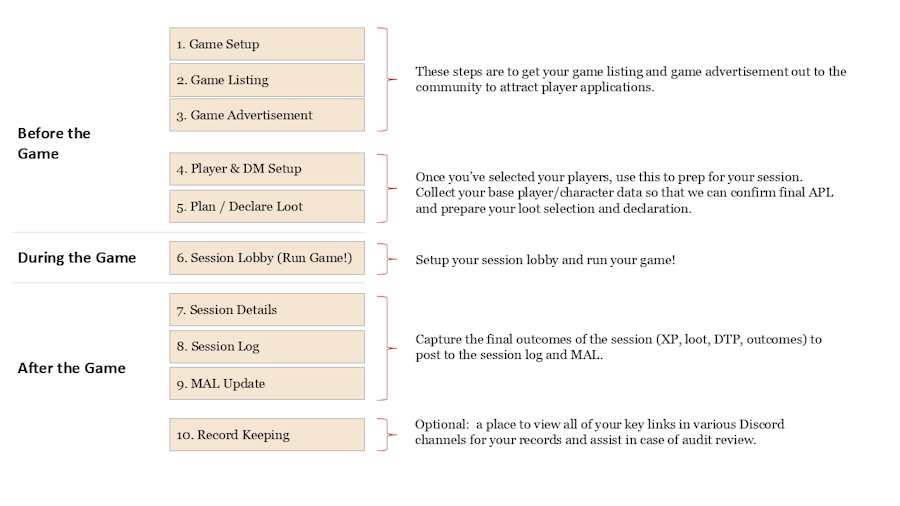
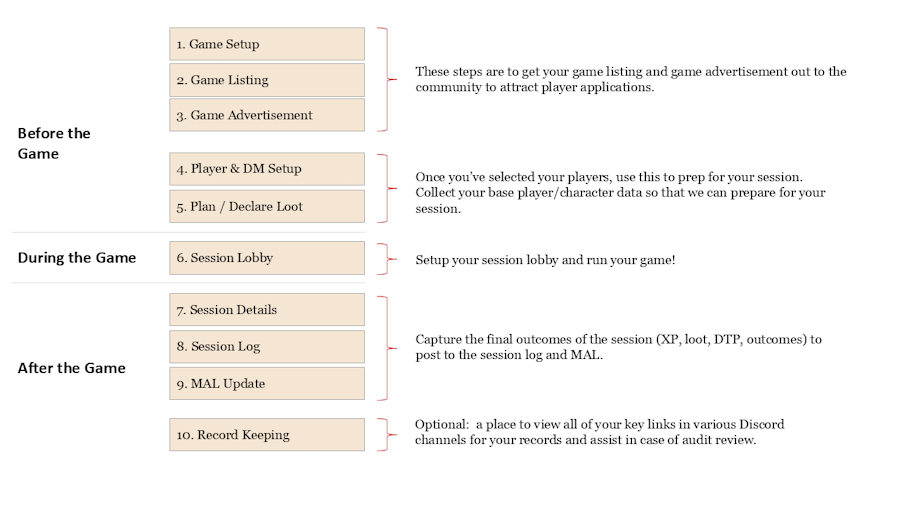
dm-tool

diff --git a/dm-tool/session.html b/dm-tool/session.html
@@ -180,7 +180,7 @@ extra_css:
 
         <div id="view-game-listing" class="view-section hidden-section">
             <h2>Game Posting to #Game-Listings</h2>
-            <p class="instruction-text">If you have a lobby already, copy the lobby link below (<a href="https://discord.com/channels/308324031478890497/1404082758342676651">instructions on how to create a lobby</a>). Otherwise use "TBD" and update the lobby later when you have one setup.</p>  
+            <p class="instruction-text">If you use a permanent session lobby, copy the link to your lobby below.  If you don't, leave it blank and we'll create it in Step 6.</p>  
             <p class="instruction-text">Review the game listing below, click the "copy to clipboard" button, then post this in <a href="https://discord.com/channels/308324031478890497/1366924010255814768">#game-listings</a></p>
                 <div class="card">
                 <div class="form-group" style="margin-bottom: 2rem;">
@@ -269,6 +269,18 @@ extra_css:
                     <div class="form-group flex-grow"><label>DM Character Name</label><input type="text" id="inp-dm-char-name" placeholder="Character Name"></div>
                     <div class="form-group" style="width: 100px;"><label>DM PC Level</label><input type="number" id="inp-dm-level" placeholder="Lvl"></div>
                     <div class="form-group" style="width: 140px;"><label>Games DM'ed on Server</label><select id="inp-dm-games-count"><option value="1">1</option><option value="2">2</option><option value="3">3</option><option value="4">4</option><option value="5">5</option><option value="6">6</option><option value="7">7</option><option value="8">8</option><option value="9">9</option><option value="10">10</option><option value="10+">10+</option></select></div>
+                </div>
+            </div>
+            
+            <div class="card" style="margin-top: 2rem;">
+                <h3 class="card-title">DM Collaborators</h3>
+                <div class="form-group">
+                    <label>DM Collaboration Link</label>
+                    <input type="text" id="inp-dm-collab-link" placeholder="Enter collaboration link (e.g., Google Doc, Discord thread)">
+                </div>
+                <div class="form-group">
+                    <label>DM Collaborators {% include help-icon.html text="Enter Discord names of collaborating DMs. One per line or comma-separated (e.g., @DMName1, @DMName2)" %}</label>
+                    <textarea id="inp-dm-collaborators" class="table-input" rows="3" placeholder="@DMName1&#10;@DMName2&#10;or: @DMName1, @DMName2, @DMName3"></textarea>
                 </div>
             </div>
         </div>
@@ -419,11 +431,27 @@ extra_css:
 
         <div id="view-session-lobby" class="view-section hidden-section">
             <h2>Session Lobby</h2>
-            <p class="instruction-text">Session lobby content coming soon...</p>
+            <p class="instruction-text">Create your session lobby message to ping all players and direct them to the game listing.</p>
+            
             <div class="card">
-                <p>This section will contain the session lobby functionality.</p>
+                <div class="form-group">
+                    <label>Game Listing URL {% include help-icon.html text="Paste the URL to your game listing (e.g., Discord message link)" %}</label>
+                    <input type="text" id="inp-game-listing-url" placeholder="https://discord.com/channels/...">
+                </div>
+
+                <div class="form-group" style="margin-top: 2rem;">
+                    <label>Session Lobby Output:</label>
+                    <p class="instruction-text">Copy this message and post it to your session lobby channel to notify all players.</p>
+                    <div class="discord-output-wrapper" style="border: 1px solid var(--color-border); border-radius: 6px; overflow: hidden;">
+                        <textarea id="out-session-lobby" class="out-session-text" style="width: 100%; height: 150px; padding: 1rem; background: #36393f; color: #dcddde; border: none; resize: vertical; font-family: monospace; box-sizing: border-box;" readonly></textarea>
+                    </div>
+                    <div style="margin-top: 0.5rem; text-align: right;">
+                        <button class="button" onclick="window.copyToClipboard('out-session-lobby')">Copy to Clipboard</button>
+                    </div>
+                </div>
             </div>
         </div>
+
 
 
         <div id="view-session-details" class="view-section hidden-section">

diff --git a/assets/js/dm-tool/state-manager.js b/assets/js/dm-tool/state-manager.js
@@ -46,6 +46,9 @@ class StateManager {
                 how_to_apply: '',
                 listing_url: '',
                 lobby_url: '',
+                game_listing_url: '', // For Session Lobby
+                dm_collab_link: '', // DM Collaboration Link
+                dm_collaborators: '', // DM Collaborators list
                 loot_plan: '',
                 predet_perms: 0,
                 predet_cons: 0
@@ -138,6 +141,13 @@ class StateManager {
         this.dom.listingUrl = document.getElementById('inp-listing-url');
         this.dom.lobbyUrl = document.getElementById('inp-lobby-url');
         
+        // Session Lobby Tab
+        this.dom.gameListingUrl = document.getElementById('inp-game-listing-url');
+        
+        // DM Collaborators
+        this.dom.dmCollabLink = document.getElementById('inp-dm-collab-link');
+        this.dom.dmCollaborators = document.getElementById('inp-dm-collaborators');
+        
         // Loot Plan Tab
         this.dom.lootPlan = document.getElementById('inp-loot-plan');
         this.dom.predetPerms = document.getElementById('inp-predet-perms');
@@ -181,6 +191,9 @@ class StateManager {
             { el: this.dom.gameName, sect: 'header', field: 'title', update: ['outputs', 'lootDeclaration'] },
             { el: this.dom.lobbyUrl, sect: 'header', field: 'lobby_url', update: ['outputs'] },
             { el: this.dom.listingUrl, sect: 'header', field: 'listing_url', update: ['outputs'] },
+            { el: this.dom.gameListingUrl, sect: 'header', field: 'game_listing_url', update: ['outputs'] },
+            { el: this.dom.dmCollabLink, sect: 'header', field: 'dm_collab_link', update: ['outputs'] },
+            { el: this.dom.dmCollaborators, sect: 'header', field: 'dm_collaborators', update: ['outputs'] },
             { el: this.dom.dmCharName, sect: 'dm', field: 'character_name', update: ['outputs', 'dmLoot'] },
             { el: this.dom.lootPlan, sect: 'header', field: 'loot_plan', update: ['lootDeclaration'] },
             // Setup Tab text areas

diff --git a/assets/js/dm-tool/session-rows.js b/assets/js/dm-tool/session-rows.js
@@ -120,13 +120,32 @@ export function addPlayerRowToMaster(data = {}) {
     const nameInput = tr.querySelector('.inp-player-display');
     const idInput = tr.querySelector('.inp-discord-id');
     
-    // Sync ID with Name if ID is missing (fallback)
+    // Validate that Discord names start with @ and sync ID with Name if ID is missing
     nameInput.addEventListener('change', () => {
+        let value = nameInput.value.trim();
+        
+        // If user entered a Discord name manually (not from sync), ensure it starts with @
+        if (value && !value.startsWith('@')) {
+            value = '@' + value;
+            nameInput.value = value;
+        }
+        
         if(!idInput.value || idInput.value === nameInput.value) {
-            idInput.value = nameInput.value;
+            idInput.value = value;
         }
     });
-
+    
+    // Also validate on blur
+    nameInput.addEventListener('blur', () => {
+        let value = nameInput.value.trim();
+        if (value && !value.startsWith('@')) {
+            value = '@' + value;
+            nameInput.value = value;
+            if(!idInput.value || idInput.value === nameInput.value.replace('@', '')) {
+                idInput.value = value;
+            }
+        }
+    });
     tr.querySelector('.btn-delete-row').addEventListener('click', () => {
         tr.remove();
         updateMasterRosterStats(); 

diff --git a/assets/js/dm-tool/session-io.js b/assets/js/dm-tool/session-io.js
@@ -327,6 +327,33 @@ ${state.header.game_description || "No description provided."}
 
         adEl.value = adText;
     }
+
+    // 3. SESSION LOBBY OUTPUT
+    const lobbyEl = document.getElementById('out-session-lobby');
+    if (lobbyEl) {
+        const listingUrl = document.getElementById('inp-game-listing-url')?.value || state.header.listing_url || "N/A";
+        
+        // Get player Discord names from roster
+        const playerMentions = [];
+        if (state.players && Array.isArray(state.players)) {
+            state.players.forEach(player => {
+                const discordName = player.display_name || player.discord_id || '';
+                if (discordName) {
+                    // Ensure it starts with @ for Discord mentions
+                    const mention = discordName.startsWith('@') ? discordName : `@${discordName}`;
+                    playerMentions.push(mention);
+                }
+            });
+        }
+        
+        const playerMentionList = playerMentions.length > 0 ? playerMentions.join(' ') : '(No players added yet)';
+        
+        const lobbyText = `This lobby is for the game corresponding to the following listing: ${listingUrl}
+
+${playerMentionList}`;
+        
+        lobbyEl.value = lobbyText;
+    }
 }
 
 /**

diff --git a/assets/js/dm-tool/session-editor.js b/assets/js/dm-tool/session-editor.js
@@ -305,6 +305,9 @@ document.addEventListener('DOMContentLoaded', async () => {
     };
     bindOutput('inp-lobby-url');
     bindOutput('inp-listing-url');
+    bindOutput('inp-game-listing-url'); // Session Lobby URL
+    bindOutput('inp-dm-collab-link'); // DM Collaboration Link
+    bindOutput('inp-dm-collaborators'); // DM Collaborators
 
     // 8. Populate Dropdowns from Game Rules
     const rules = cachedGameRules;
